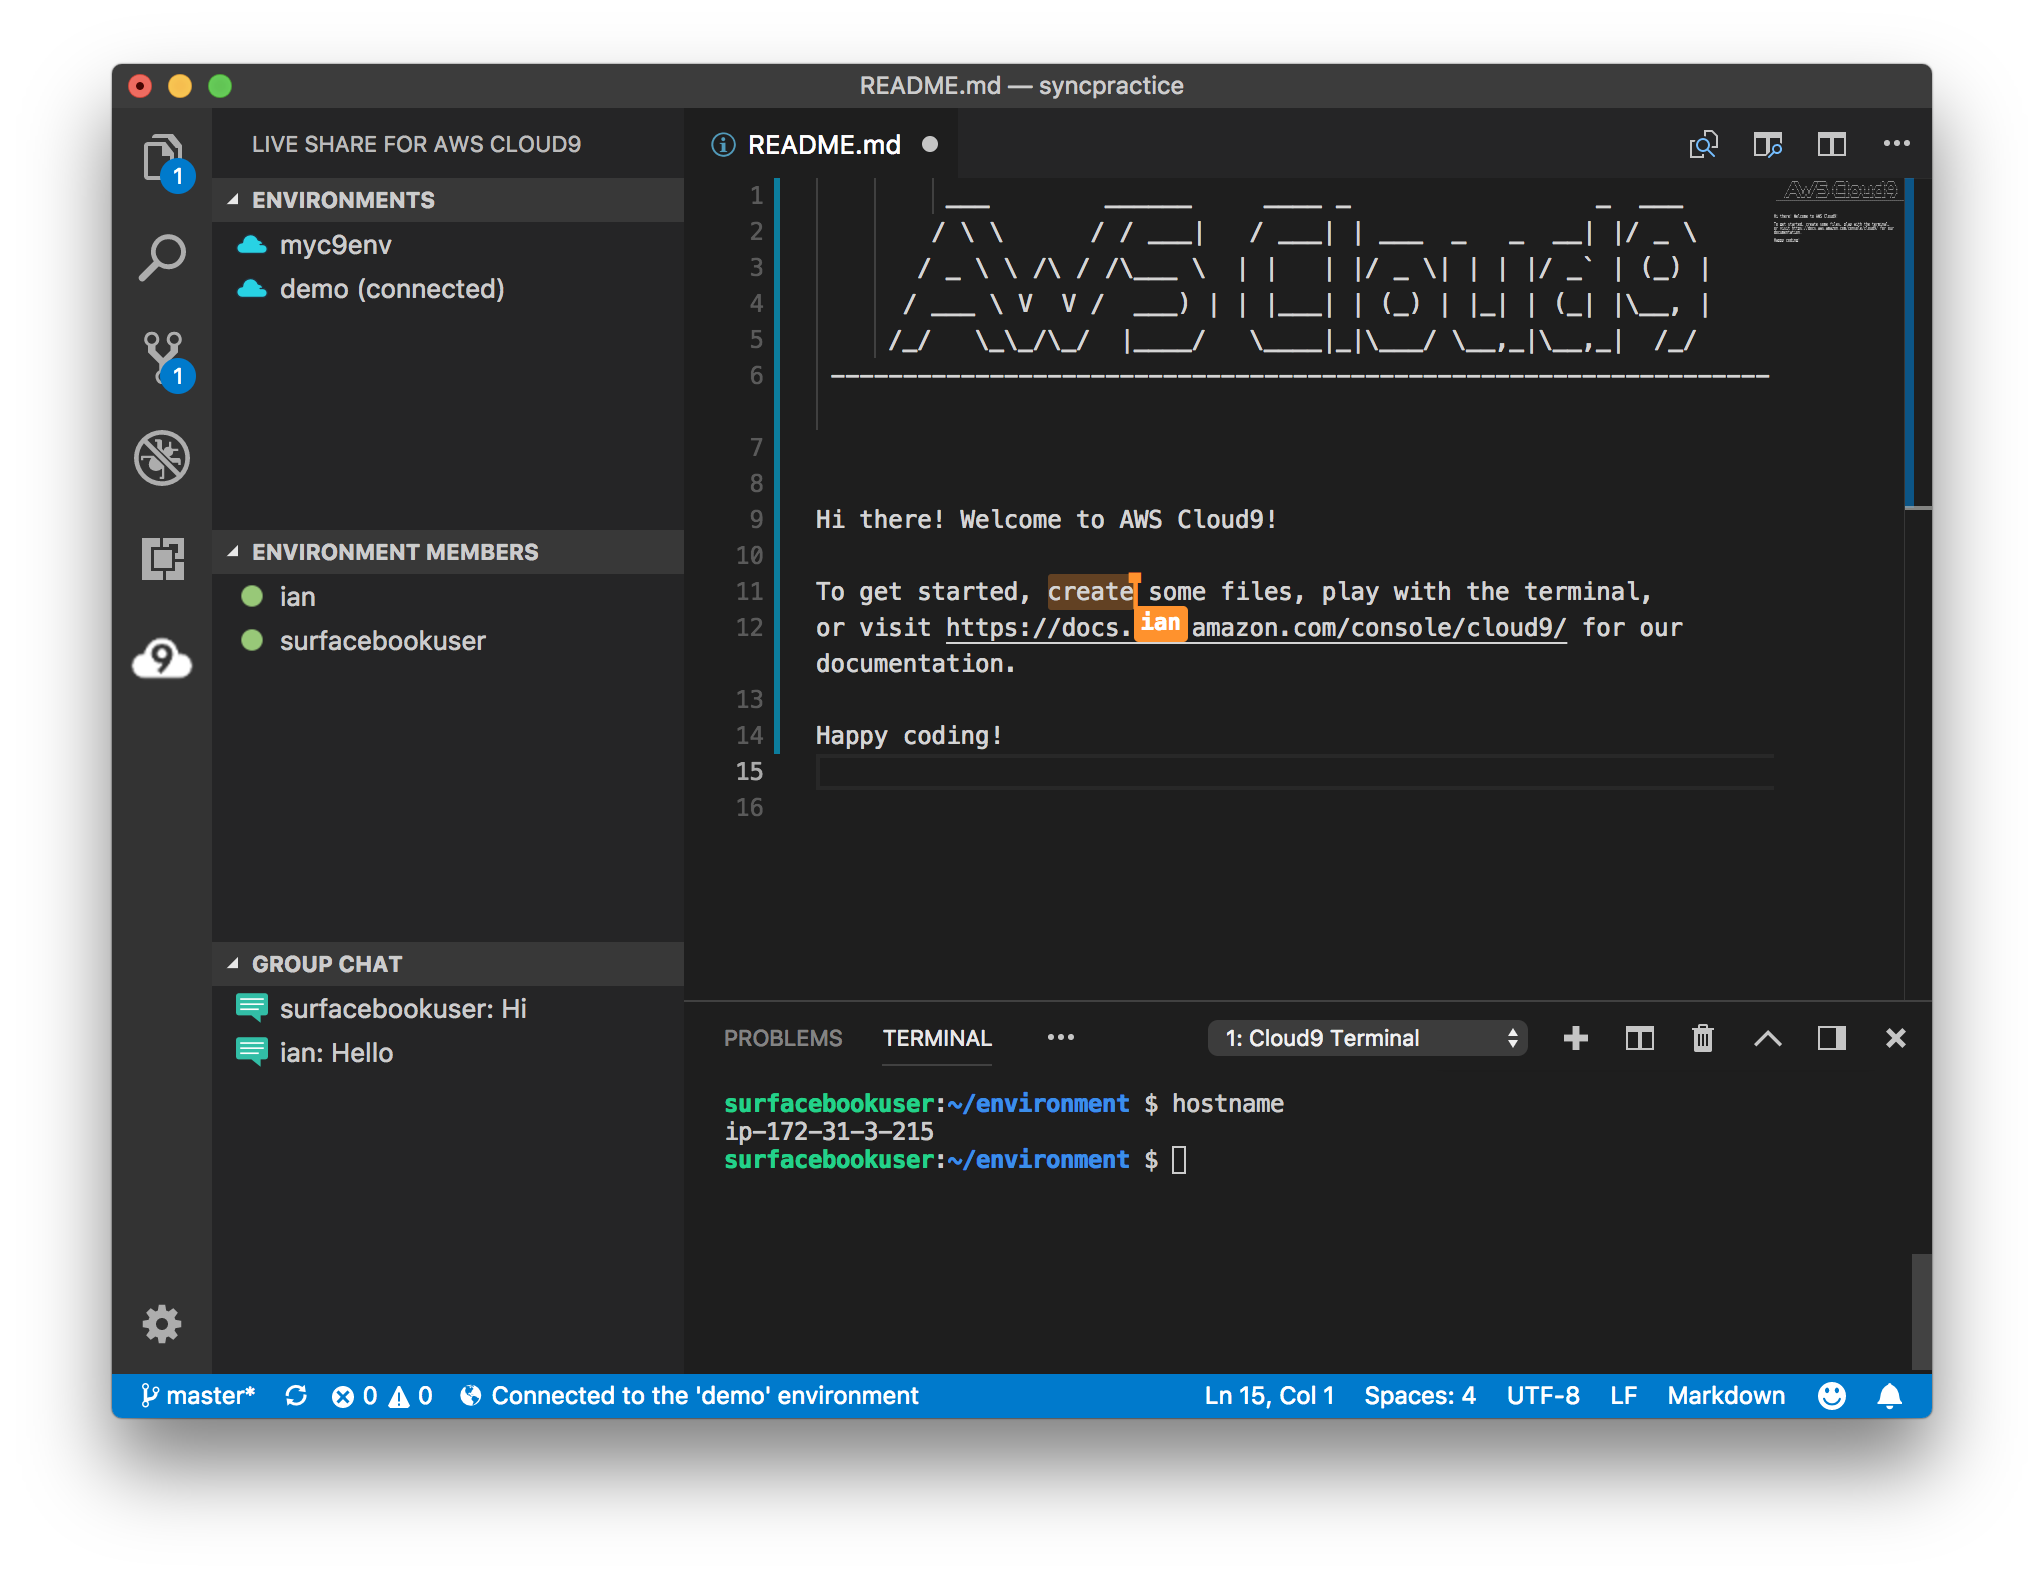
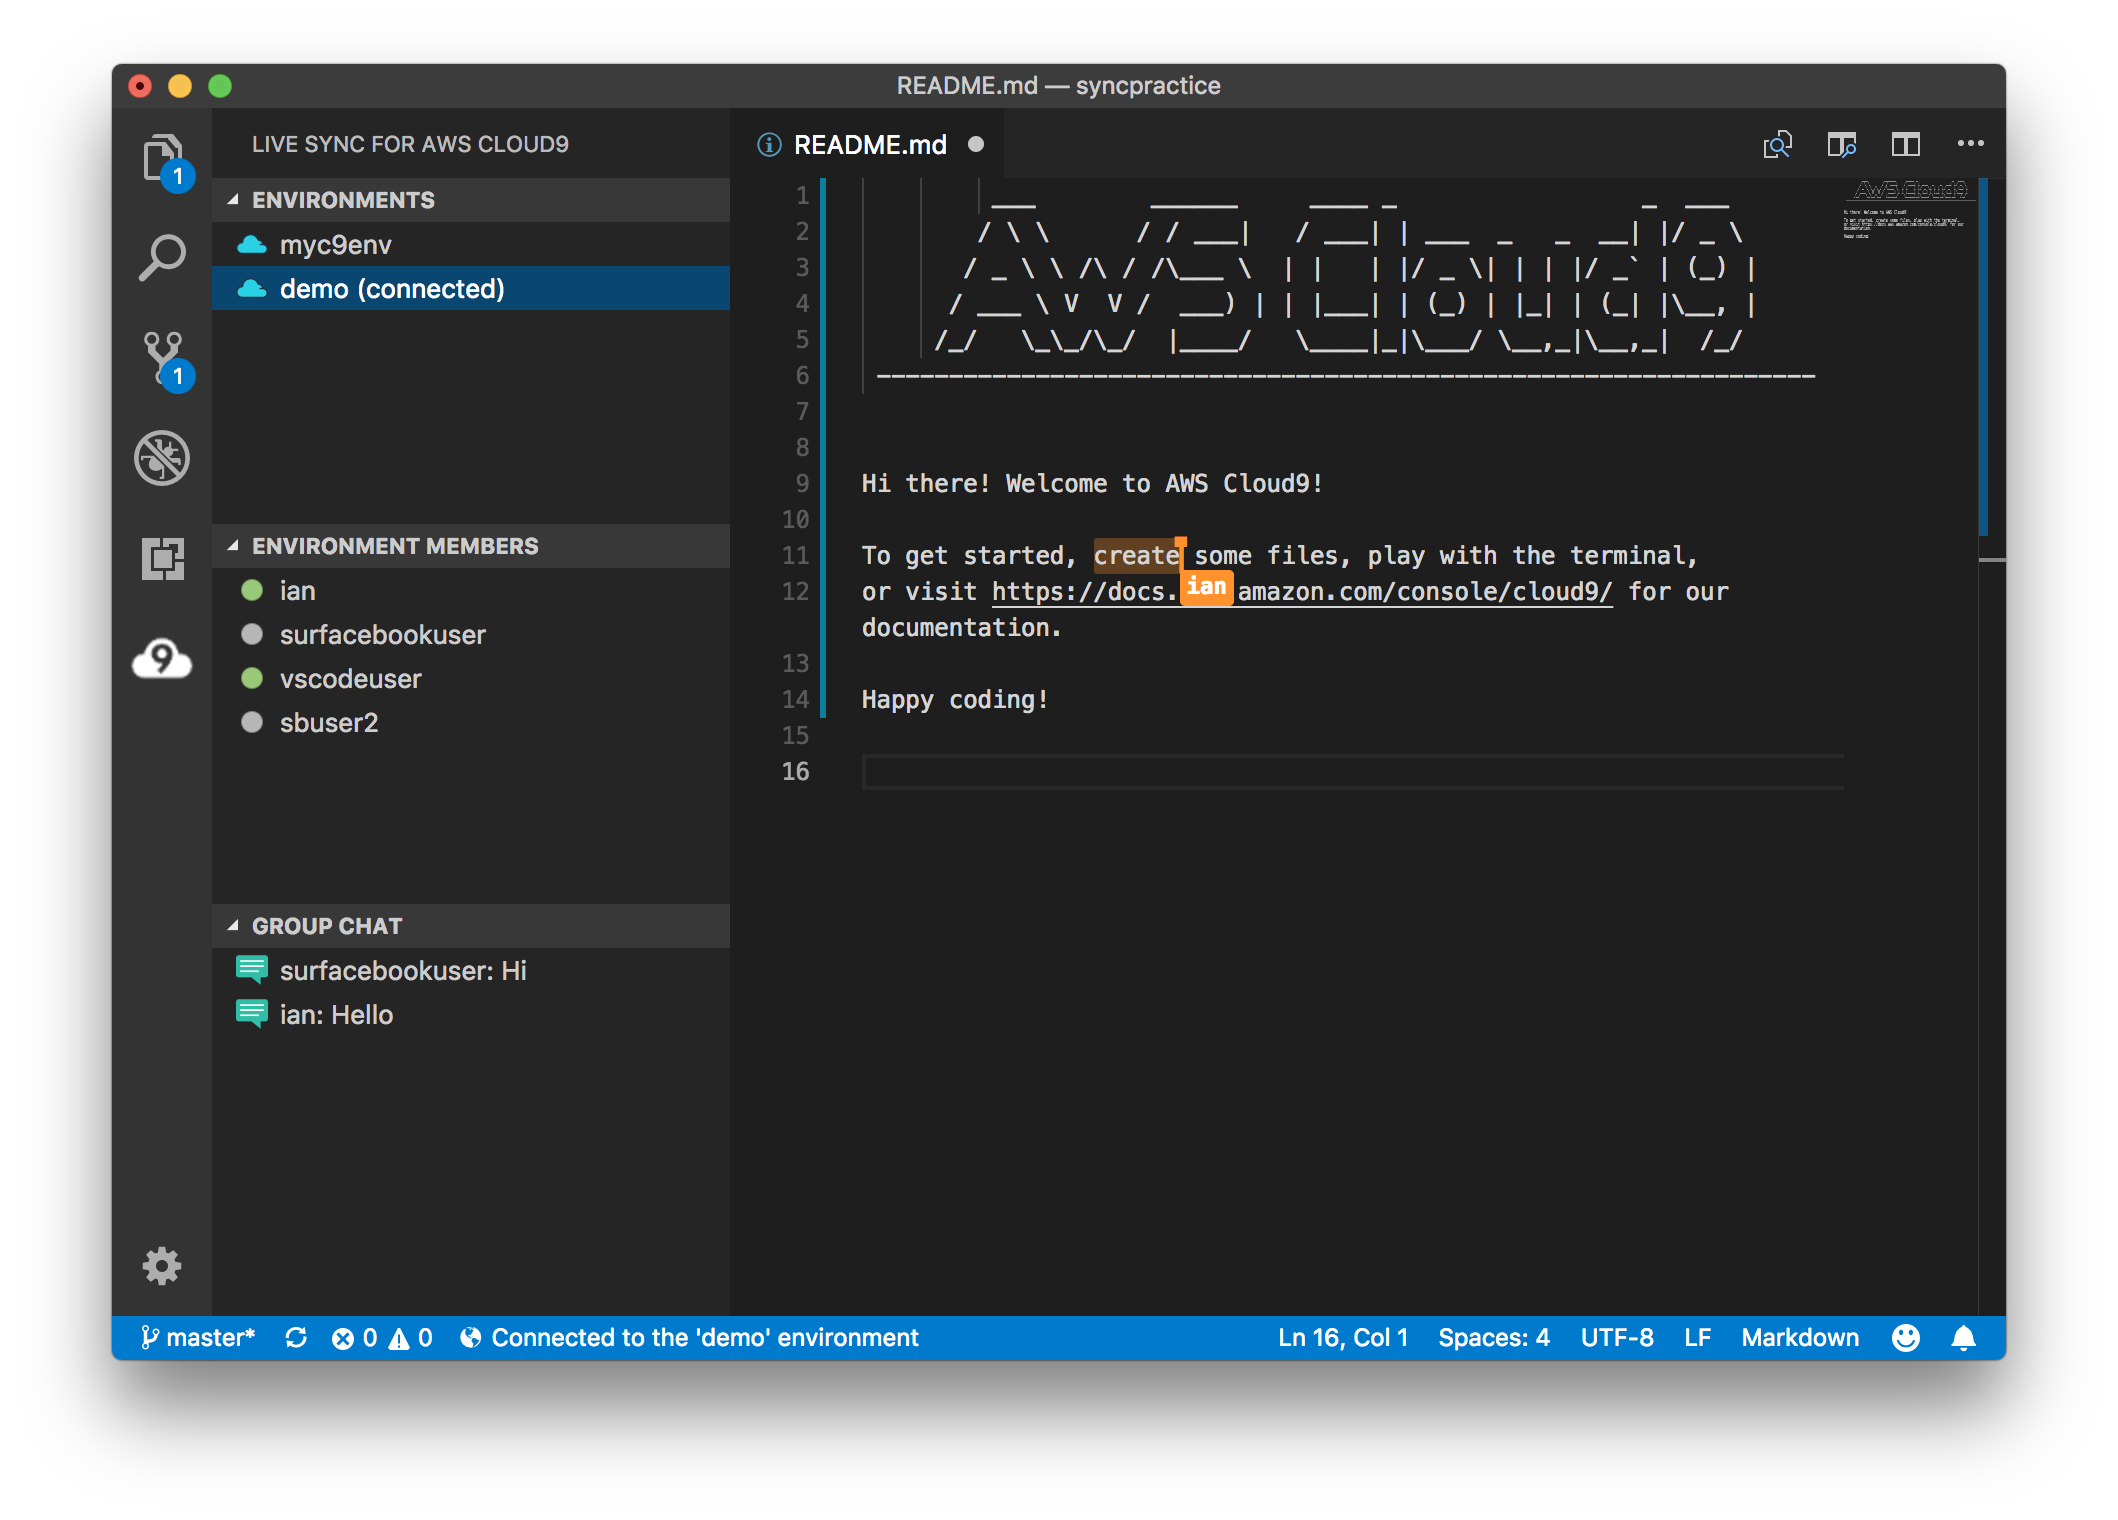
Slight name change

diff --git a/extension.js b/extension.js
@@ -38,13 +38,13 @@ function activate(context) {
     fileManager = new FileManager.FileManager(eventEmitter);
     editManager = new EditManager.EditManager(eventEmitter, websocketProvider);
 
-    vscode.window.createTreeView('live-share-for-aws-cloud9-view-2-users', {
+    vscode.window.createTreeView('live-sync-for-aws-cloud9-view-2-users', {
         'treeDataProvider': userProvider
     });
-    environmentView = vscode.window.createTreeView('live-share-for-aws-cloud9-view-1-environments', {
+    environmentView = vscode.window.createTreeView('live-sync-for-aws-cloud9-view-1-environments', {
         'treeDataProvider': environmentProvider
     });
-    vscode.window.createTreeView('live-share-for-aws-cloud9-view-3-chat', {
+    vscode.window.createTreeView('live-sync-for-aws-cloud9-view-3-chat', {
         'treeDataProvider': chatProvider
     });
 

diff --git a/renderManager.js b/renderManager.js
@@ -28,6 +28,7 @@ var RenderManager = /** @class */ (function () {
             },
             rangeBehavior: vscode.DecorationRangeBehavior.ClosedClosed
         });
+        // TODO: Fix missing cap when at end of file
         this.cursortopdecorator = vscode.window.createTextEditorDecorationType({
             before: {
                 color: 'rgba(' + this.color.r.toString() + ',' + this.color.g.toString() + ',' + this.color.b.toString() + ',1)',

diff --git a/README.md b/README.md
@@ -1,8 +1,8 @@
-# Live Share for AWS Cloud9
+# Live Sync for AWS Cloud9
 
 >**Note:** This extension is still in alpha stages. Please [raise an issue](https://github.com/iann0036/cloud9-sync/issues) if you experience any problems.
 
-![Live Share for AWS Cloud9 Screenshot](https://raw.githubusercontent.com/iann0036/cloud9-sync/master/resources/screenshot.png)
+![Live Sync for AWS Cloud9 Screenshot](https://raw.githubusercontent.com/iann0036/cloud9-sync/master/resources/screenshot.png)
 
 ## Setup
 

diff --git a/CHANGELOG.md b/CHANGELOG.md
@@ -1,5 +1,8 @@
 # Change Log
 
+## [0.7.2]
+- Slight name change
+
 ## [0.7.1]
 - Minor bug fixes
 
